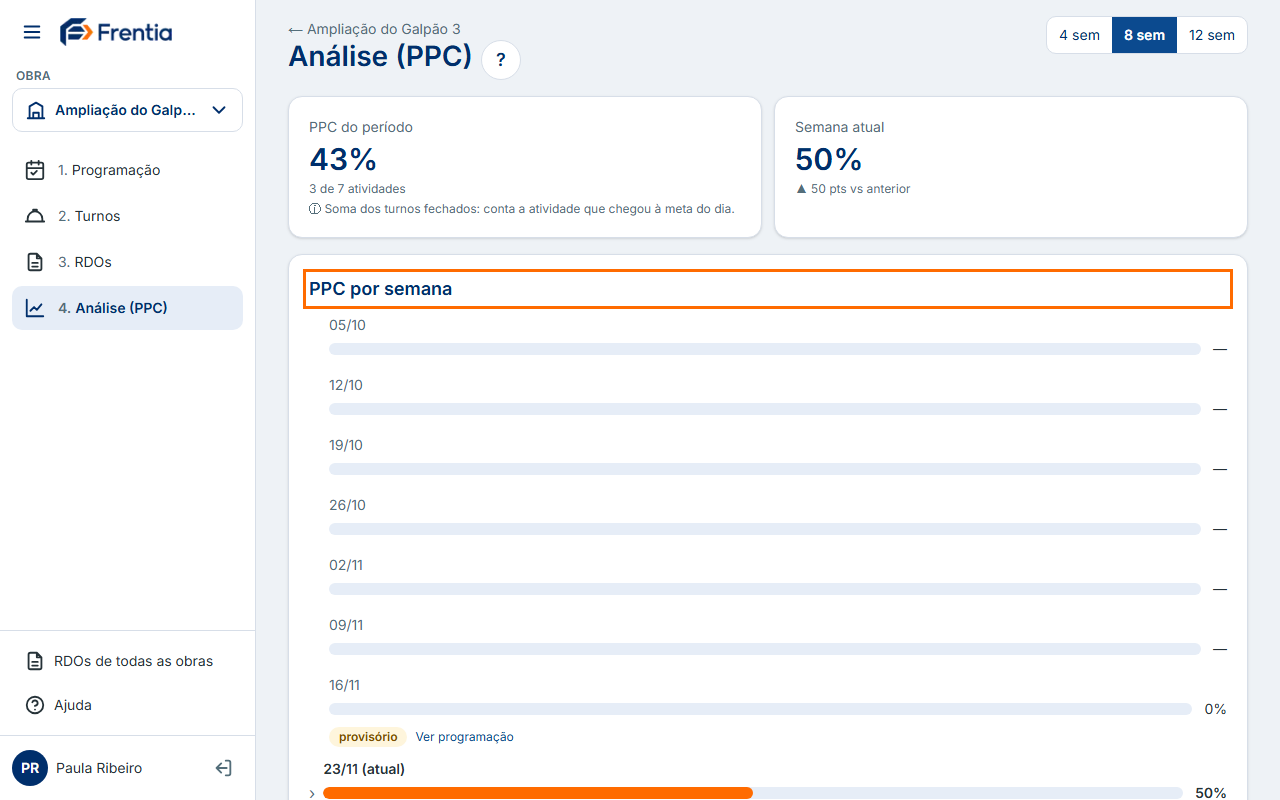
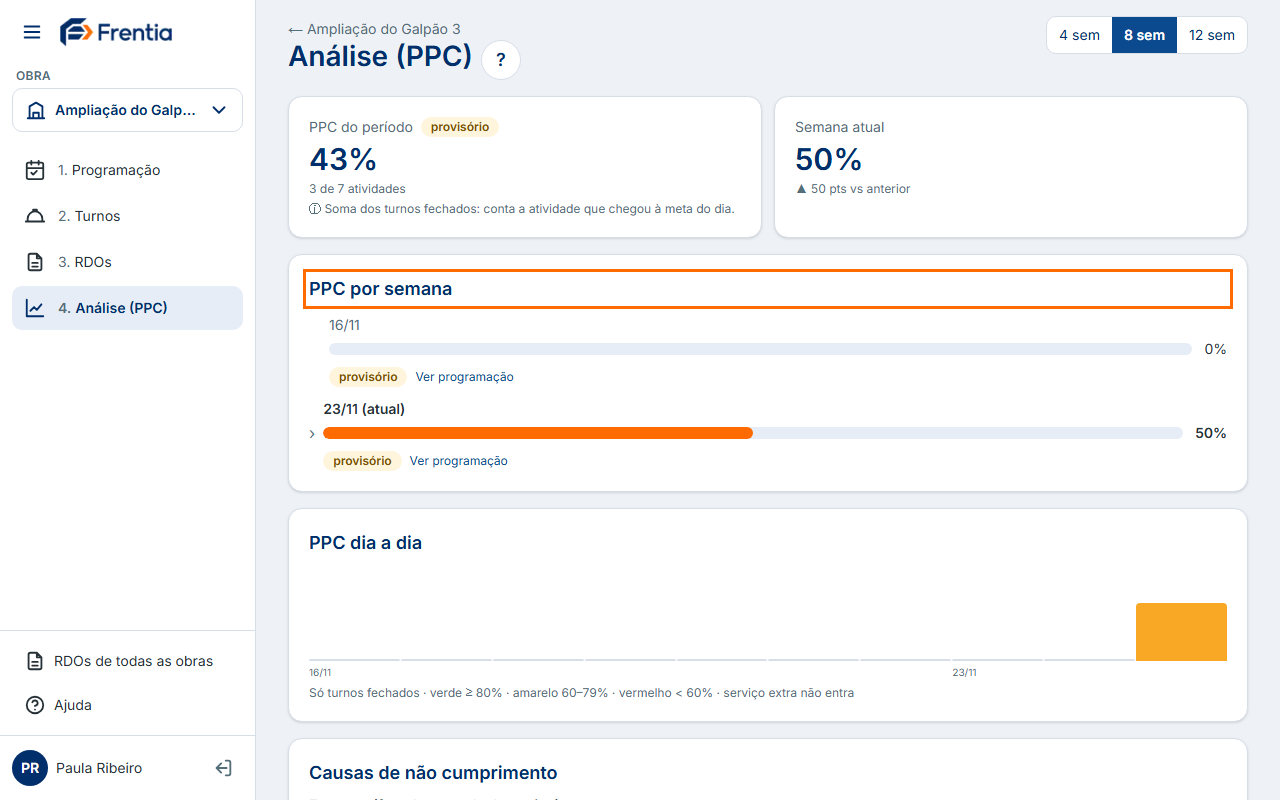
feat(analise): começa na semana da obra, selo provisório no período e causas por grupo (item 18)

Changed region(s): [[0.25, 0.375, 0.9688, 1.0], [0.3125, 0.125, 0.4062, 0.1875]]

diff --git a/app/(app)/obras/[obraId]/analise/page.tsx b/app/(app)/obras/[obraId]/analise/page.tsx
@@ -5,7 +5,8 @@ import { Aviso } from "@/components/ui/Aviso";
 import { Cartao } from "@/components/ui/Cartao";
 import { obterObra } from "@/lib/db/obras";
 import { listarProgramadasParaAnalise } from "@/lib/db/programacao";
-import { listarTurnosFechadosParaAnalise } from "@/lib/db/turnos";
+import { inicioDaObra, listarTurnosFechadosParaAnalise } from "@/lib/db/turnos";
+import { GRUPO_CAUSA } from "@/lib/dominio/tipos";
 import {
   analisarObra,
   normalizarSemanas,
@@ -41,7 +42,8 @@ export default async function AnalisePage({
   const obra = await obterObra(supabase, obraId);
   if (!obra) notFound();
 
-  const semanas = semanasDaAnalise(hojeSaoPaulo(), n);
+  const inicio = await inicioDaObra(supabase, obraId, obra.created_at).catch(() => null);
+  const semanas = semanasDaAnalise(hojeSaoPaulo(), n, inicio);
   let turnos: TurnoAnalise[] | null = null;
   let programadas: SemanaProgramadaAnalise[] = [];
   try {
@@ -88,6 +90,12 @@ export default async function AnalisePage({
   );
 }
 
+const GRUPOS = [
+  { id: "externa", rotulo: "Externas (fora do controle da equipe)" },
+  { id: "interna", rotulo: "Internas" },
+  { id: "outra", rotulo: "Outras" },
+] as const;
+
 function Conteudo({ analise, obraId, dias }: { analise: Analise; obraId: string; dias: DiaPpc[] }) {
   if (analise.periodo.total === 0) {
     return (
@@ -104,7 +112,9 @@ function Conteudo({ analise, obraId, dias }: { analise: Analise; obraId: string;
       <section aria-labelledby="titulo-indicadores" className="grid gap-3 sm:grid-cols-2">
         <h2 id="titulo-indicadores" className="sr-only">Indicadores</h2>
         <Cartao className="flex flex-col gap-1">
-          <p className="text-sm text-texto-suave">PPC do período</p>
+          <p className="flex items-center gap-2 text-sm text-texto-suave">
+            PPC do período{analise.semanas.some((s) => s.provisorio || (s.atual && s.turnos.length > 0)) && <Selo tom="alerta">provisório</Selo>}
+          </p>
           <p className="text-3xl font-semibold text-primaria">{formatarPercentual(analise.periodo.ppc)}</p>
           <p className="text-xs text-texto-suave">
             {analise.periodo.concluidas} de {analise.periodo.total} atividades
@@ -190,7 +200,13 @@ function Conteudo({ analise, obraId, dias }: { analise: Analise; obraId: string;
           {analise.causas.length === 0 ? (
             <p className="text-sm text-texto-suave">Nenhuma atividade deixou de ser cumprida no período.</p>
           ) : (
-            analise.causas.map((c) => (
+            GRUPOS.map((g) => {
+              const lista = analise.causas.filter((c) => (GRUPO_CAUSA[c.causa] ?? "outra") === g.id);
+              if (lista.length === 0) return null;
+              return (
+                <div key={g.id} className="flex flex-col gap-1">
+                  <h3 className="text-sm font-semibold text-texto">{g.rotulo}</h3>
+                  {lista.map((c) => (
               <Expansivel
                 key={c.causa}
                 resumo={<Barra rotulo={c.rotulo} fracao={c.fracao} texto={`${c.quantidade} (${formatarPercentual(c.fracao)})`} />}
@@ -214,7 +230,10 @@ function Conteudo({ analise, obraId, dias }: { analise: Analise; obraId: string;
                   )}
                 </ul>
               </Expansivel>
-            ))
+                  ))}
+                </div>
+              );
+            })
           )}
         </Cartao>
       </section>

diff --git a/lib/db/turnos.ts b/lib/db/turnos.ts
@@ -2,6 +2,7 @@ import type { SupabaseClient } from "@supabase/supabase-js";
 import type { TurnoAnalise } from "@/lib/dominio/analise";
 import { ERRO_MOTIVO, ERRO_MOTIVO_REPETIDO, validarMotivo } from "@/lib/dominio/eventos";
 import { aderencia } from "@/lib/dominio/ritmo";
+import { hojeSaoPaulo } from "@/lib/dominio/entrada";
 import { compararTurnos, transicaoTurno, type AcaoTurno } from "@/lib/dominio/regras";
 import { gerarToken, hashToken } from "@/lib/dominio/token";
 import type { CondicaoClima, Periodo, PeriodoClima, StatusTurno, TipoAtividade } from "@/lib/dominio/tipos";
@@ -104,6 +105,19 @@ export async function listarTurnosComAtividades(
     }),
   );
   return lista.sort((a, b) => compararTurnos(b, a));
+}
+
+/** Data (YYYY-MM-DD) em que a obra começou: a mais antiga entre o cadastro, o 1º turno e a 1ª semana programada. */
+export async function inicioDaObra(c: SupabaseClient, obraId: string, criadaEm: string): Promise<string> {
+  const [t, s] = await Promise.all([
+    c.from("turnos").select("data").eq("obra_id", obraId).order("data").limit(1).maybeSingle(),
+    c.from("semanas").select("inicio").eq("obra_id", obraId).order("inicio").limit(1).maybeSingle(),
+  ]);
+  if (t.error) throw t.error;
+  if (s.error) throw s.error;
+  return [hojeSaoPaulo(new Date(criadaEm)), t.data?.data as string | undefined, s.data?.inicio as string | undefined]
+    .filter((d): d is string => !!d)
+    .sort()[0];
 }
 
 /** Turnos fechados da obra com data >= `desde` (YYYY-MM-DD), com atividades em ordem, para a análise de PPC. */

diff --git a/lib/ajuda/conteudo/encerrar-semana.ts b/lib/ajuda/conteudo/encerrar-semana.ts
@@ -25,7 +25,8 @@ export const encerrarSemana: Capitulo = {
       titulo: "Leia a Análise (PPC)",
       texto: [
         "PPC é o Percentual de Planejamento Concluído: das atividades programadas, quantas foram cumpridas. Uma semana com 10 atividades programadas e 7 cumpridas tem PPC de 70%.",
-        "Na etapa \"Análise (PPC)\", escolha o período (4, 8 ou 12 semanas). Veja o \"PPC do período\", o \"PPC por semana\" e as \"Causas de não cumprimento\", que mostram o que mais atrapalhou.",
+        "Na etapa \"Análise (PPC)\", escolha o período (4, 8 ou 12 semanas). Veja o \"PPC do período\", o \"PPC por semana\" e as \"Causas de não cumprimento\", que mostram o que mais atrapalhou. A lista começa na semana em que a obra começou, e o selo \"provisório\" avisa que ainda há semana em andamento.",
+        "As causas vêm separadas em \"Externas\" (fora do controle da equipe, como material ou liberação de área), \"Internas\" (mão de obra e equipamento) e \"Outras\".",
         "Use as causas para programar melhor a semana seguinte: se \"Falta material\" se repete, por exemplo, confirme o material antes de programar.",
       ],
       captura: {

diff --git a/lib/dominio/analise.ts b/lib/dominio/analise.ts
@@ -85,9 +85,14 @@ export function inicioDaSemana(data: string): string {
 }
 
 /** N segundas-feiras em ordem crescente; a última é a da semana de `hoje`. */
-export function semanasDaAnalise(hoje: string, n: number): string[] {
+/** N semanas até a de hoje; com `inicioObra`, não volta antes da semana em que a obra começou (mínimo: a atual). */
+export function semanasDaAnalise(hoje: string, n: number, inicioObra?: string | null): string[] {
   const atual = inicioDaSemana(hoje);
-  return Array.from({ length: n }, (_, i) => somarDias(atual, -7 * (n - 1 - i)));
+  const todas = Array.from({ length: n }, (_, i) => somarDias(atual, -7 * (n - 1 - i)));
+  if (!inicioObra) return todas;
+  const primeira = inicioDaSemana(inicioObra);
+  const filtradas = todas.filter((s) => s >= primeira);
+  return filtradas.length > 0 ? filtradas : [atual];
 }
 
 const concluida = (a: AtividadeAnalise) => statusAtividade(a.qtd_planejada, a.qtd_realizada) === "concluida";

diff --git a/tests/dominio/analise.test.ts b/tests/dominio/analise.test.ts
@@ -54,6 +54,11 @@ describe("semanasDaAnalise", () => {
   it("lista N segundas em ordem crescente terminando na semana de hoje", () => {
     expect(semanasDaAnalise("2026-11-15", 3)).toEqual(SEMANAS);
   });
+  it("começa na semana em que a obra começou (sem semanas antes dela)", () => {
+    expect(semanasDaAnalise("2026-11-15", 3, "2026-11-04")).toEqual(["2026-11-02", "2026-11-09"]);
+    expect(semanasDaAnalise("2026-11-15", 3, "2026-11-20")).toEqual(["2026-11-09"]);
+    expect(semanasDaAnalise("2026-11-15", 3, "2026-10-01")).toEqual(SEMANAS);
+  });
   it("domingo à noite em São Paulo ainda é a semana que começou na segunda anterior", () => {
     expect(semanasDaAnalise(hojeSaoPaulo(new Date("2026-11-16T02:00:00Z")), 1)).toEqual(["2026-11-09"]);
   });

diff --git a/lib/ajuda/novidades.ts b/lib/ajuda/novidades.ts
@@ -4,6 +4,11 @@ import type { Novidade } from "./tipos";
 export const NOVIDADES: Novidade[] = [
   {
     data: "2026-11-25",
+    texto: "Análise (PPC) mais fiel: começa na semana em que a obra começou, mostra \"provisório\" no PPC do período enquanto há semana em andamento e separa as causas em externas, internas e outras.",
+    href: "/ajuda/encerrar-semana#analise",
+  },
+  {
+    data: "2026-11-25",
     texto: "O quadro agora só exibe: \"Problemas e oportunidades\" se cadastram, resolvem e apagam na página do turno.",
     href: "/ajuda/quadro-tv#problemas",
   },

diff --git a/docs/backlog.md b/docs/backlog.md
@@ -110,7 +110,7 @@ com limite de gasto, e vira recurso do plano pago quando a cobrança existir.
 16. **Página do turno** — ~5.500–6.250 px, "Fechar turno" no fim; "Confirmar fechamento" clicável com pendências
     (deveria levar direto a cada pendência); botão vermelho "Remover" em cada atividade. [P1, P2]
 17. **RDO** — separar trabalho e efetivo por responsável; marcar o serviço extra; alargar a coluna de observações. [P2]
-18. **Análise** — começa 7 semanas antes da obra existir (começar na 1ª semana da obra); selo "provisório" também no
+18. ✅ **No ar desde 2026-11-25** — **Análise** — começa 7 semanas antes da obra existir (começar na 1ª semana da obra); selo "provisório" também no
     cartão principal; causas sem separar externas/internas. [P2]
 
 19. ✅ **Feito em 2026-11-24** — **Vincular atividades em sequência (débito do dia passa para a noite)** — ex.: "Montagem de Andaime" 12 m
